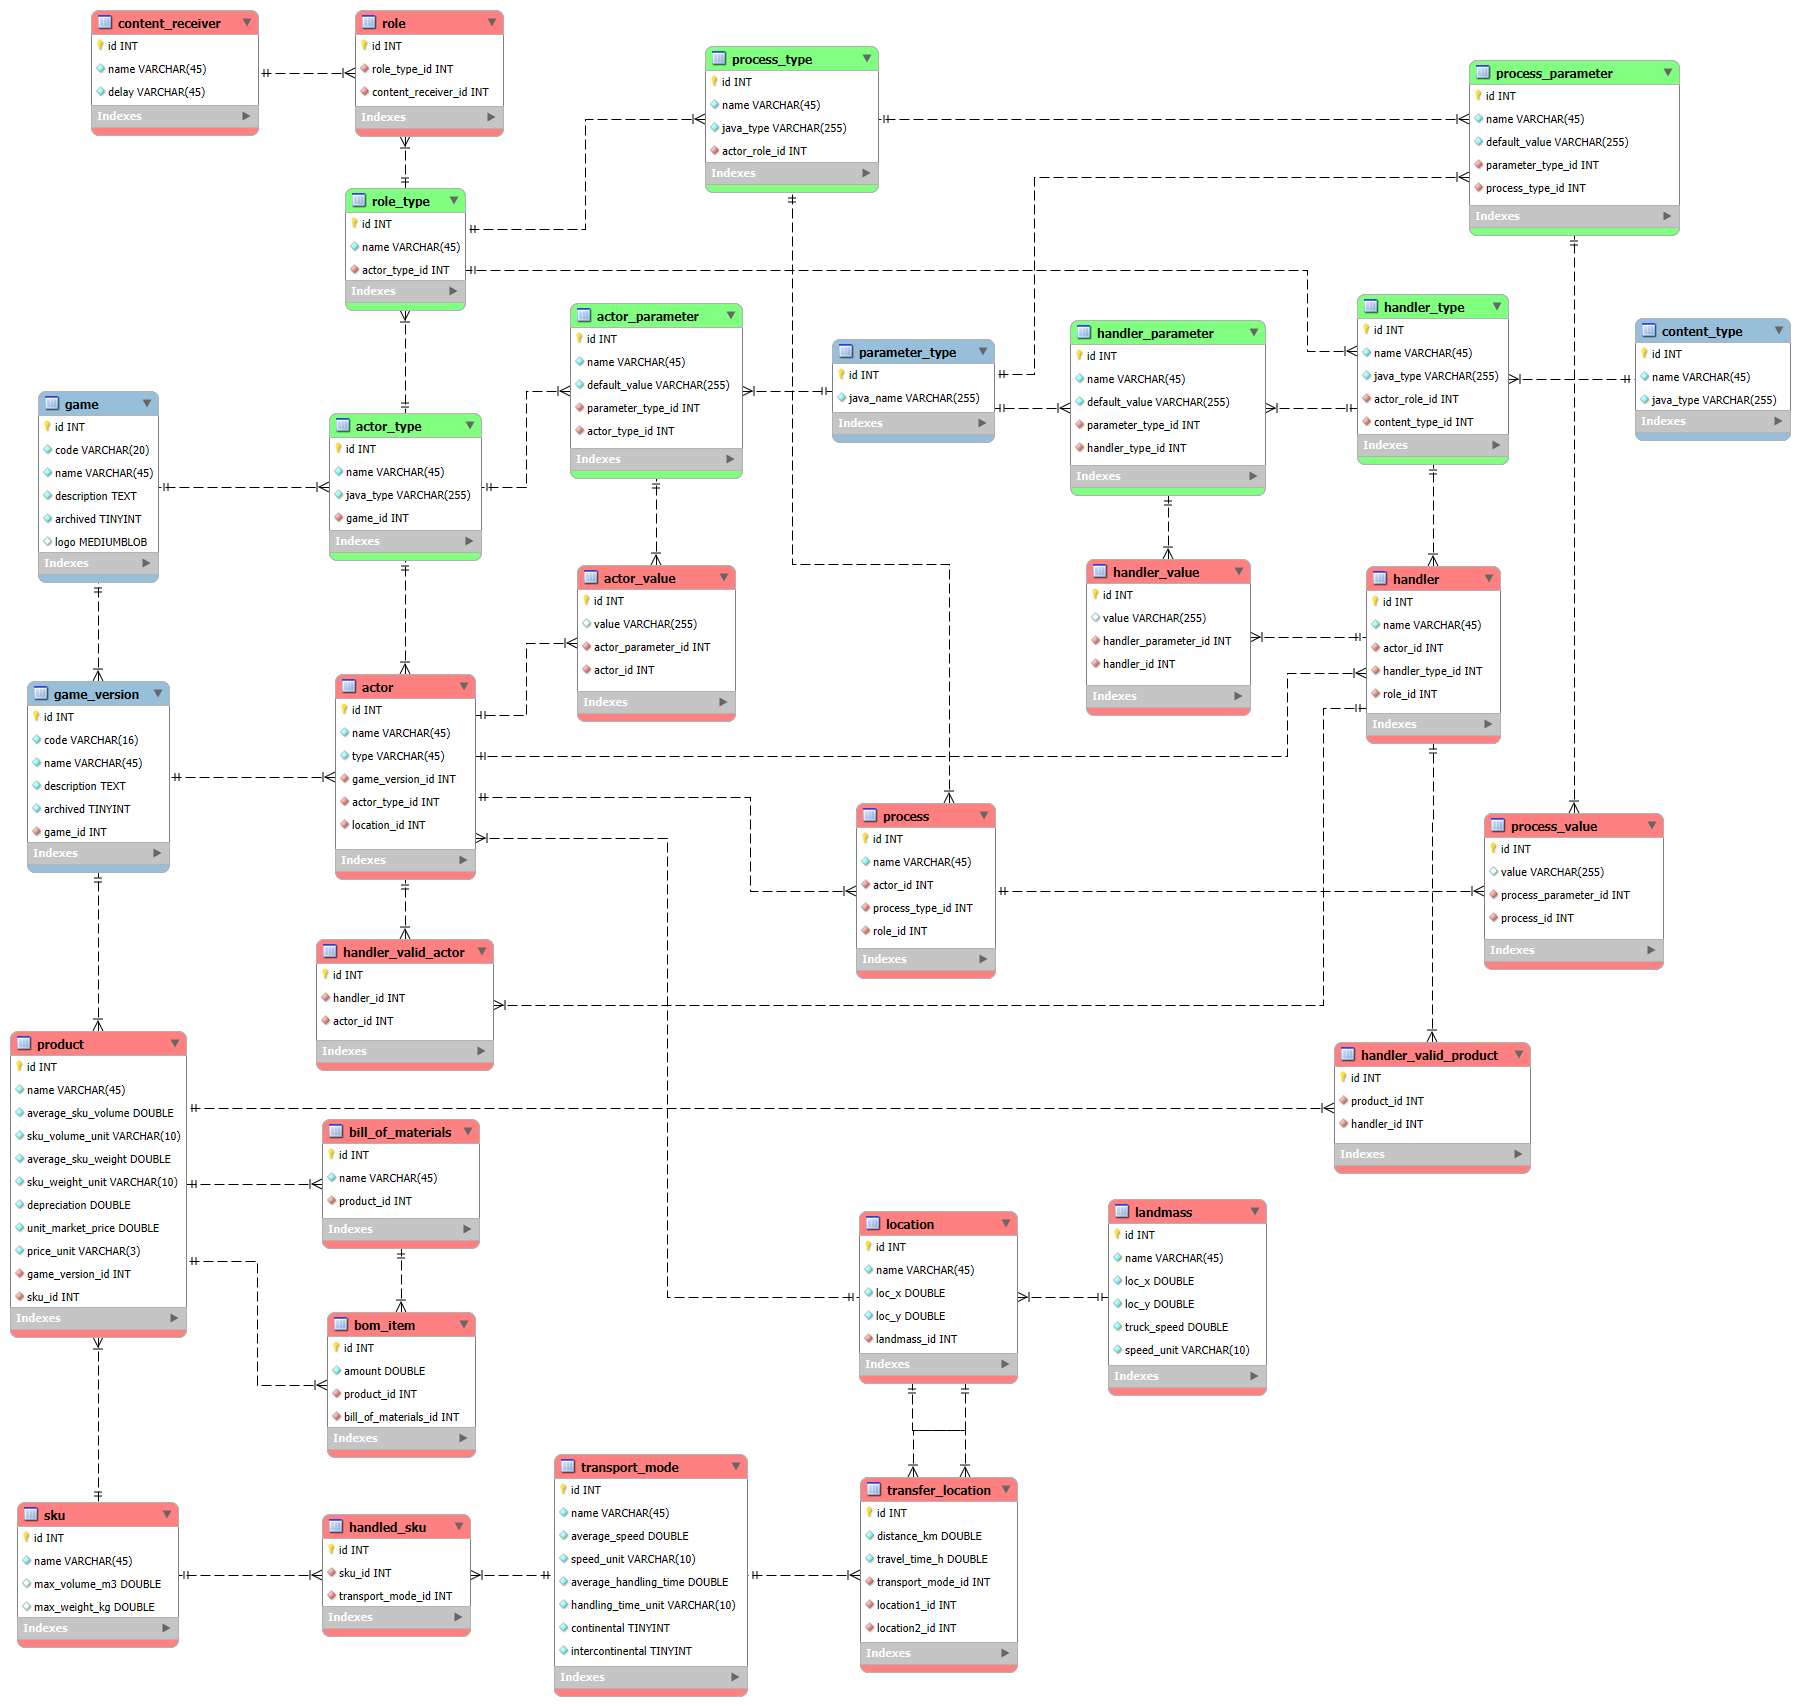
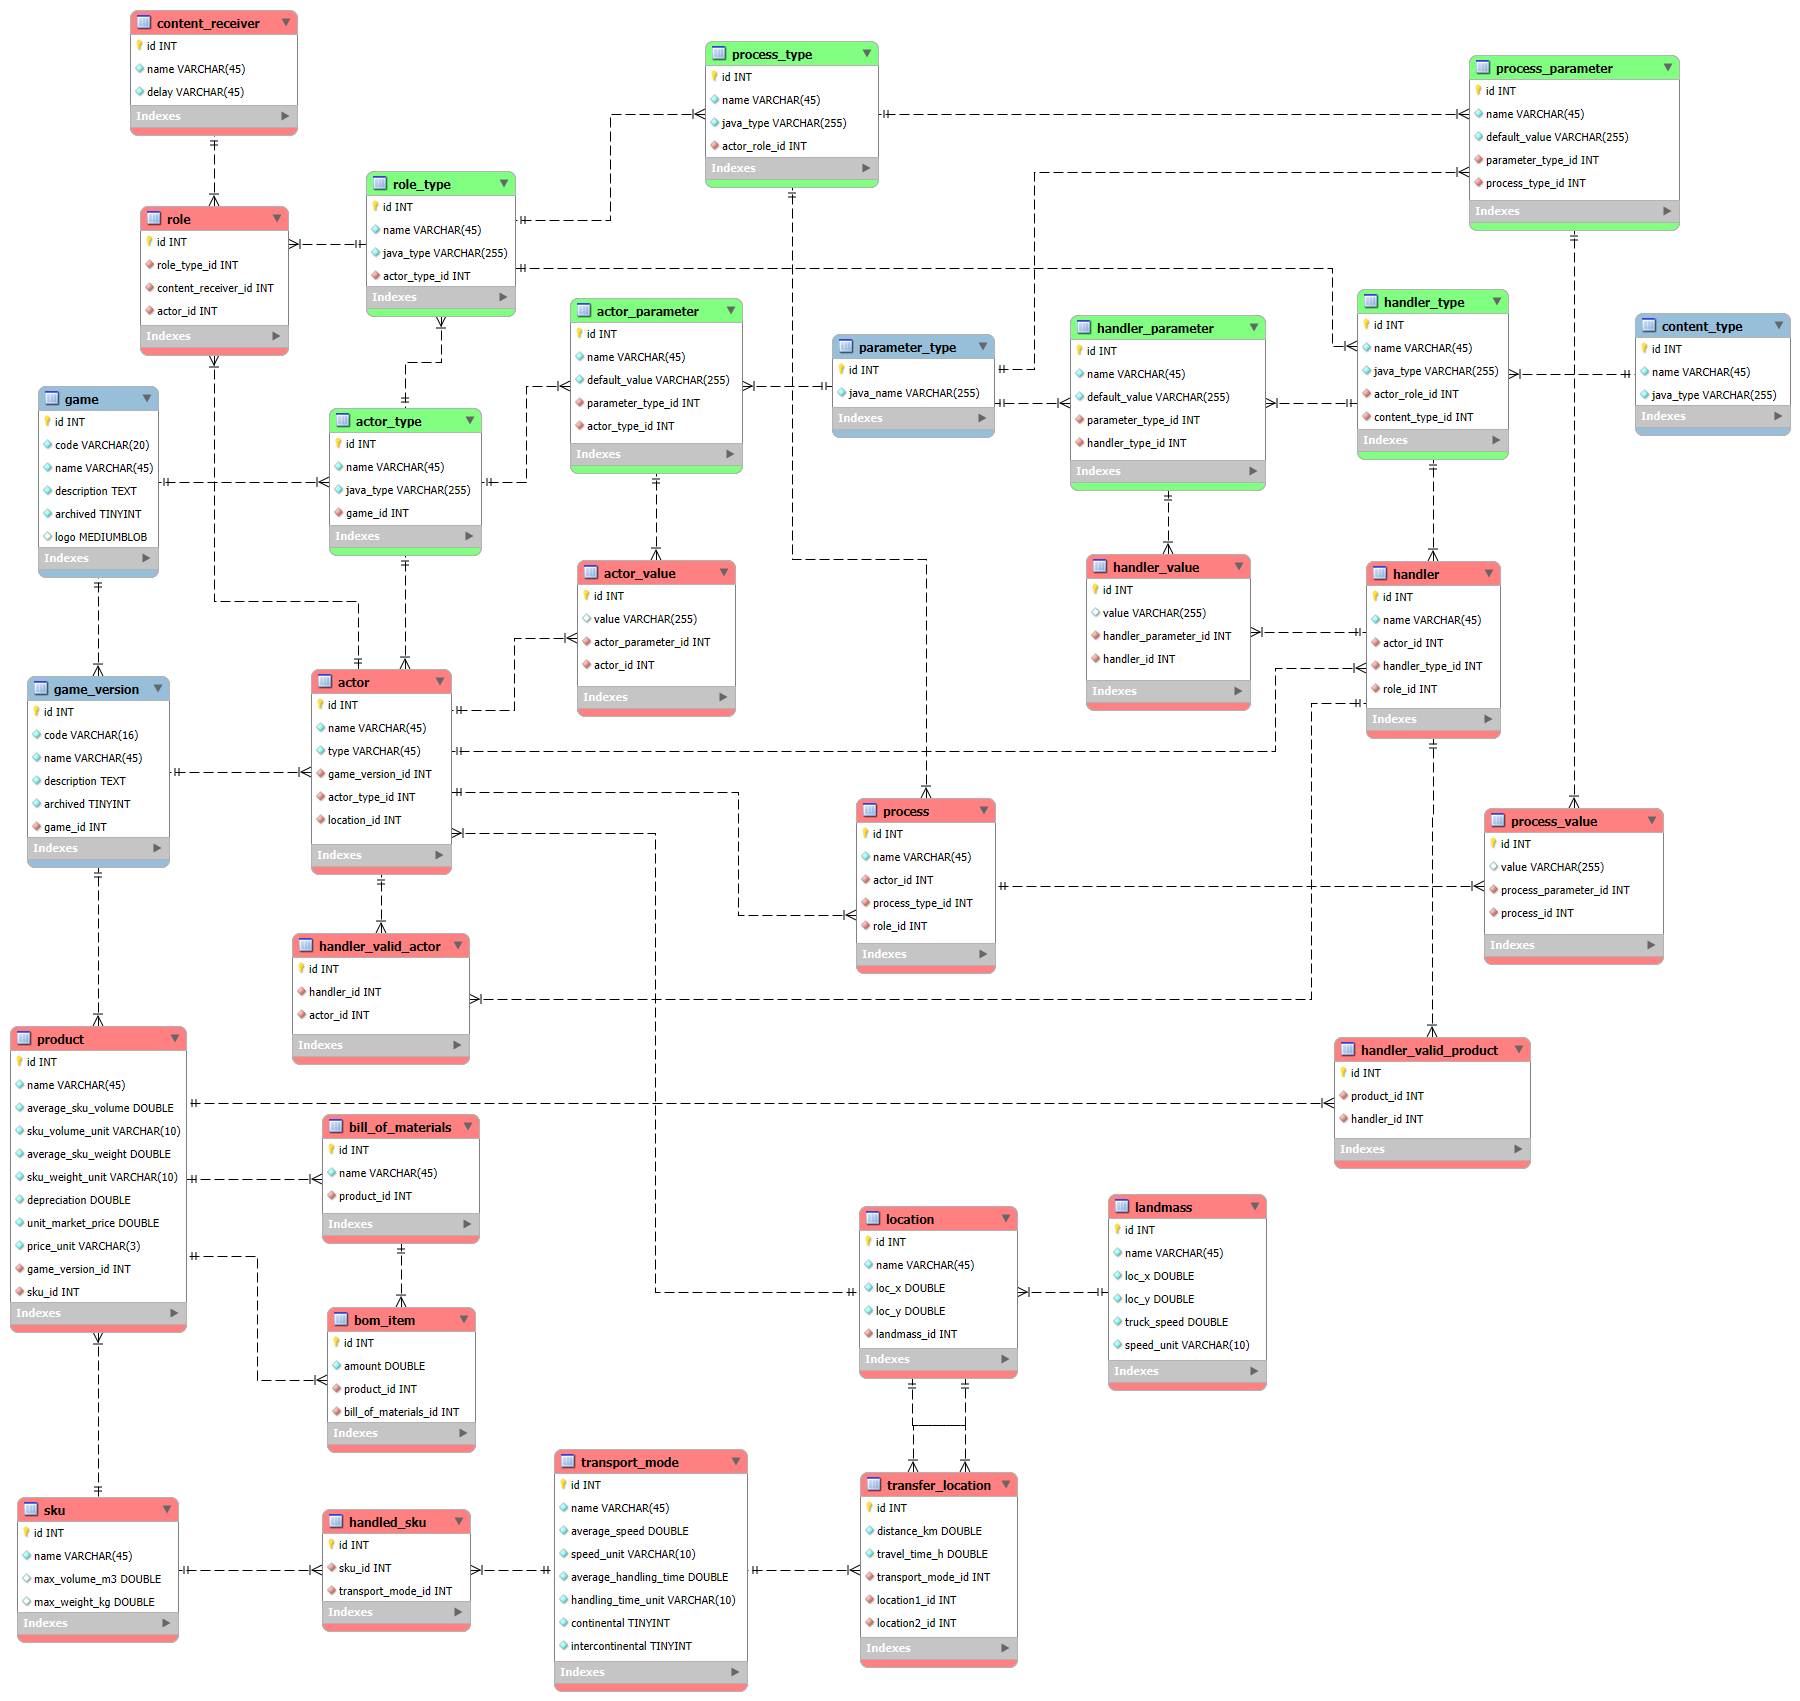
Database design for product, actor and role have been added

diff --git a/doc/4-architecture/database-design.md b/doc/4-architecture/database-design.md
@@ -52,7 +52,39 @@ Game design data contains all data necessary to create and start a game. The dat
 
 Defining a game was a multi-month project due to the complexity of the database. In the design for this project, it might therefore be good to take a more lean approach, while keeping flexibility and maintainability. The tables for the game will be described in a number of steps below.
 
-The overall diagram (with a couple or relations left out) is still complicated:
+The overall diagram (with a couple or relations left out) is still complicated. Blue types refer to the Admin tables. Green tables define a game without values for the parameters. These tables set-up a rough scaffold for the game. Red tables define the details for the game, such as locations, distances, and values for the parameters of the actors, handlers, and autonomous processes.
 
 ![](diagrams/gscg-database-game-design.png)
+
+Let's break down the database into several sub-components:
+
+### Product tables
+
+The product tables define the product, sku, and bill-of-materials:
+
+- `product` gives the main characteristics of a product in the game or simulation. It specifies the name, the sock keping unit (`sku`), the average volume and weight (with units), the depreciation as a fraction per day, and a (starting / average) unit market price per `sku`.
+- `sku` defines the way that the product is typically transported, such as on a pallet, in a 20 ft or 40 ft container, in a box, as a unit, etc. Each of the sku types has a maximum volume and weight, defining how many `product` instances fit in one `sku`.
+- `bill_of_materials` defines the assembly of a `product` from semi-finished products or raw materials. The `bill_of_materials` uniquely belongs to a product and has multiple instances of a `bom_item`. Note that the `bill_of_materials` for a `product` van be `null`.
+- `bom_item` is one product that is needed to assemble into another product, with the `amount` of `product` that is needed as one of its attributes.
+
+The partial relations look as follows:
+
+![](diagrams/gscg-database-product.png)
+
+
+### Actor and Role tables
+
+The actor table defines the organizations (agents) in the game with their location, whereas the role specifies the processing per type of decision that has to be made. The tables and relations look as follows:
+
+- `actor_type` is a reference to an exisiting Java implementation of a type of actor in the simulation library. Therefore, it contains a reference to a `java_type`. The `actor_type` is defined on the game-level, since different instances of `game_version` can have a different set of defined actors.
+- `actor` is the instantiation of an `actor_type` in the `game_version`. It has a `location` and one or more instances of `role`.
+- `role_type` defines a role for an `actor_type` such as Purchasing, Selling, Producing, Banking or Transporting in the simulation library. Therefore, it contains a reference to a `java_type`.
+- `role` is the instantiation of an `role_type` in the `game_version`. The `role` has a `content_receiver` that specifies when content (messages) can be received and how long it takes to process.
+- `content_receiver` is a simple specification of the delay that occurs when receiving content (messages). This definition can probably extended with versions that have weekend closure, that work office hours in a certain time zone, etc.
+- `location` specifies an (x,y) or (lon,lat) position for the `actor`. It is located on a `landmass`.
+- `landmass` is important, since trucks and trains cannot transport goods between landmasses, only on landmasses. 
+
+The partial relations look as follows:
+
+![](diagrams/gscg-database-actor-role.png)
 
